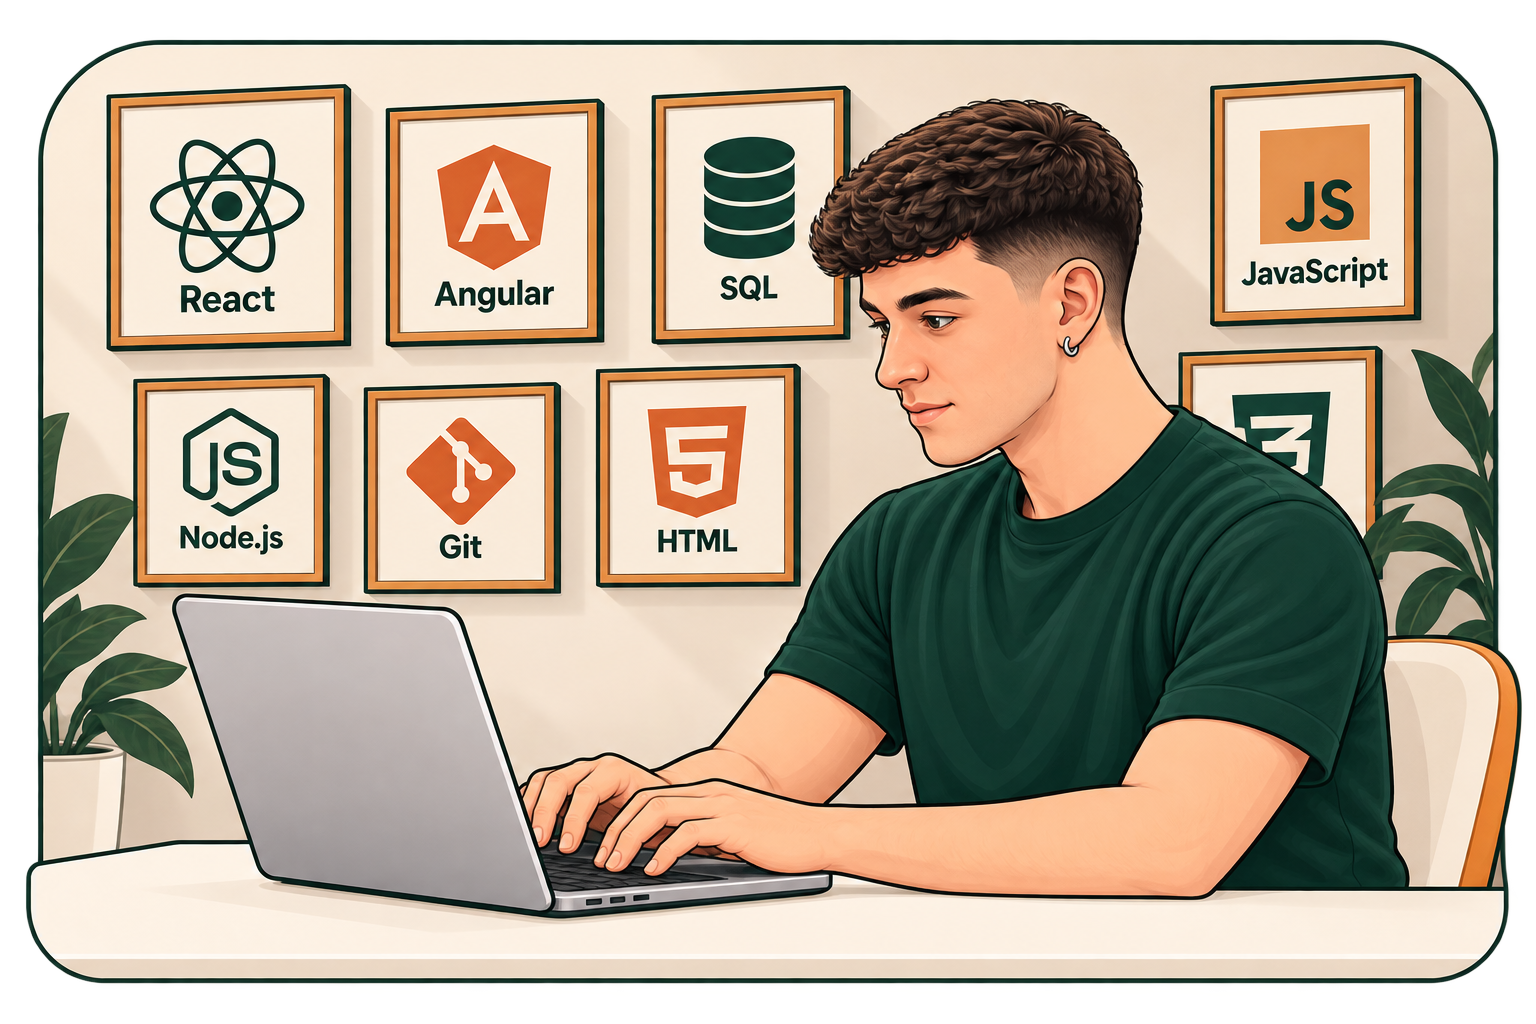
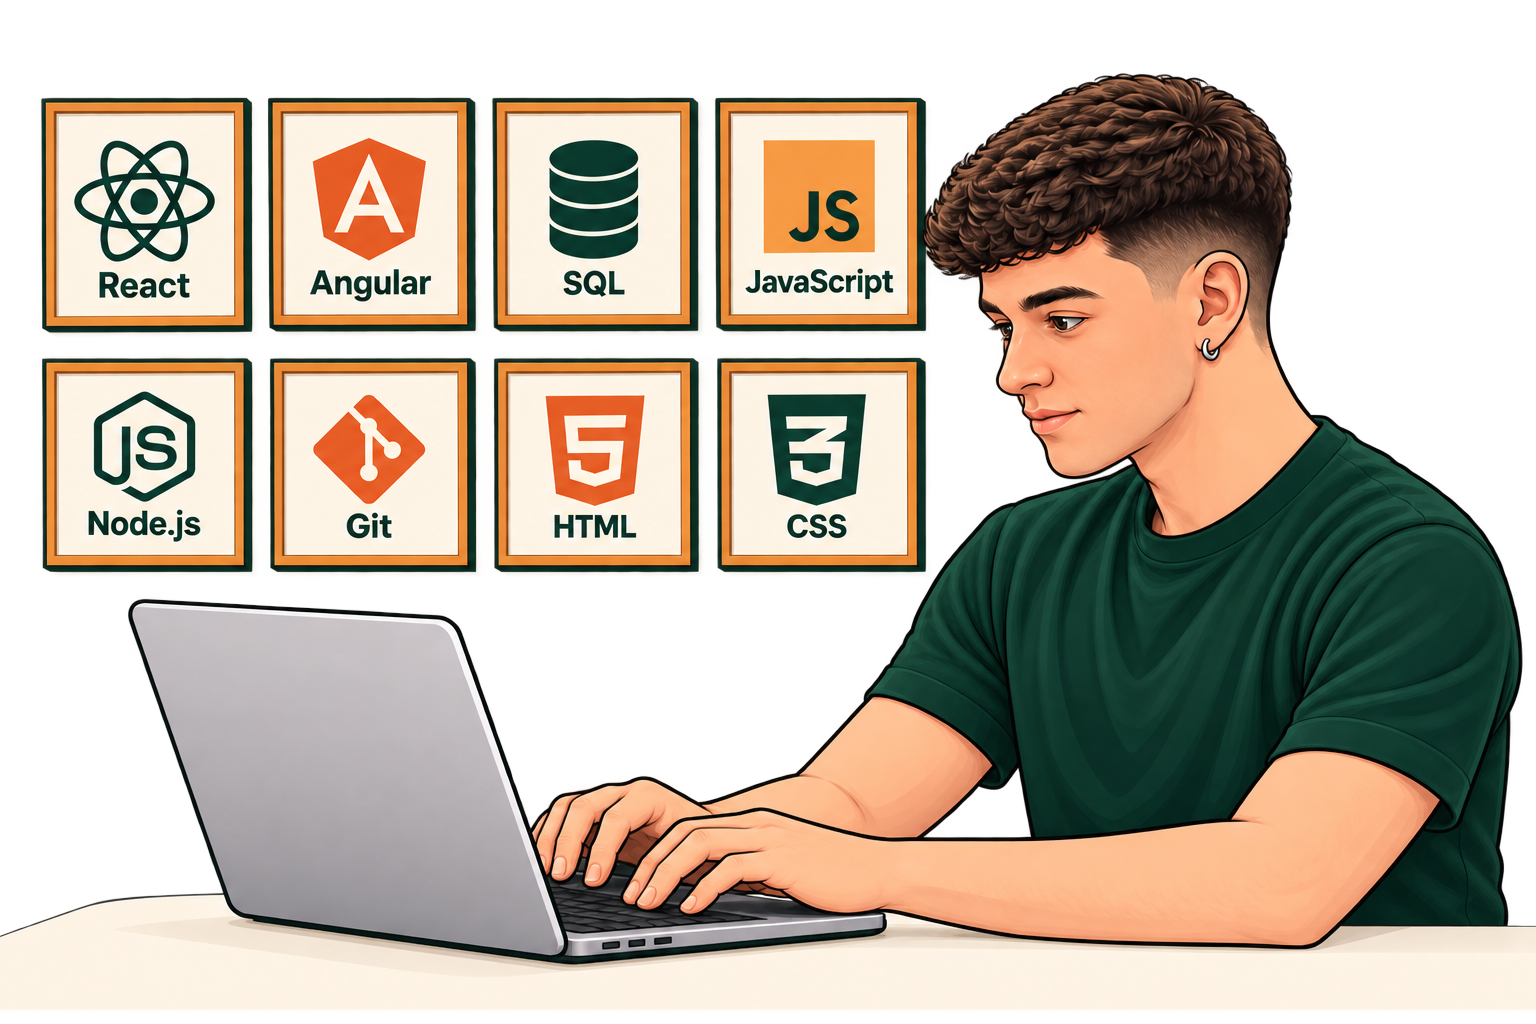
Integrate developer artwork with page background and reveal all skill frames

diff --git a/src/components/DeveloperIllustration.jsx b/src/components/DeveloperIllustration.jsx
@@ -3,7 +3,7 @@ export default function DeveloperIllustration({ dark }) {
     <img
       className="developer-illustration"
       src={`/illustrations/martin-${dark ? "dark" : "light"}.png`}
-      alt="Ilustración de Martín Fierro mirando su portátil mientras escribe, con la mesa en primer plano y cuadros de React, Angular, SQL, JavaScript, Node.js, Git, HTML y CSS en la pared."
+      alt="Ilustración de Martín Fierro mirando su portátil mientras escribe, con la mesa en primer plano y ocho cuadros visibles a su izquierda: React, Angular, SQL, JavaScript, Node.js, Git, HTML y CSS."
       width={1536}
       height={1024}
       fetchPriority="high"
